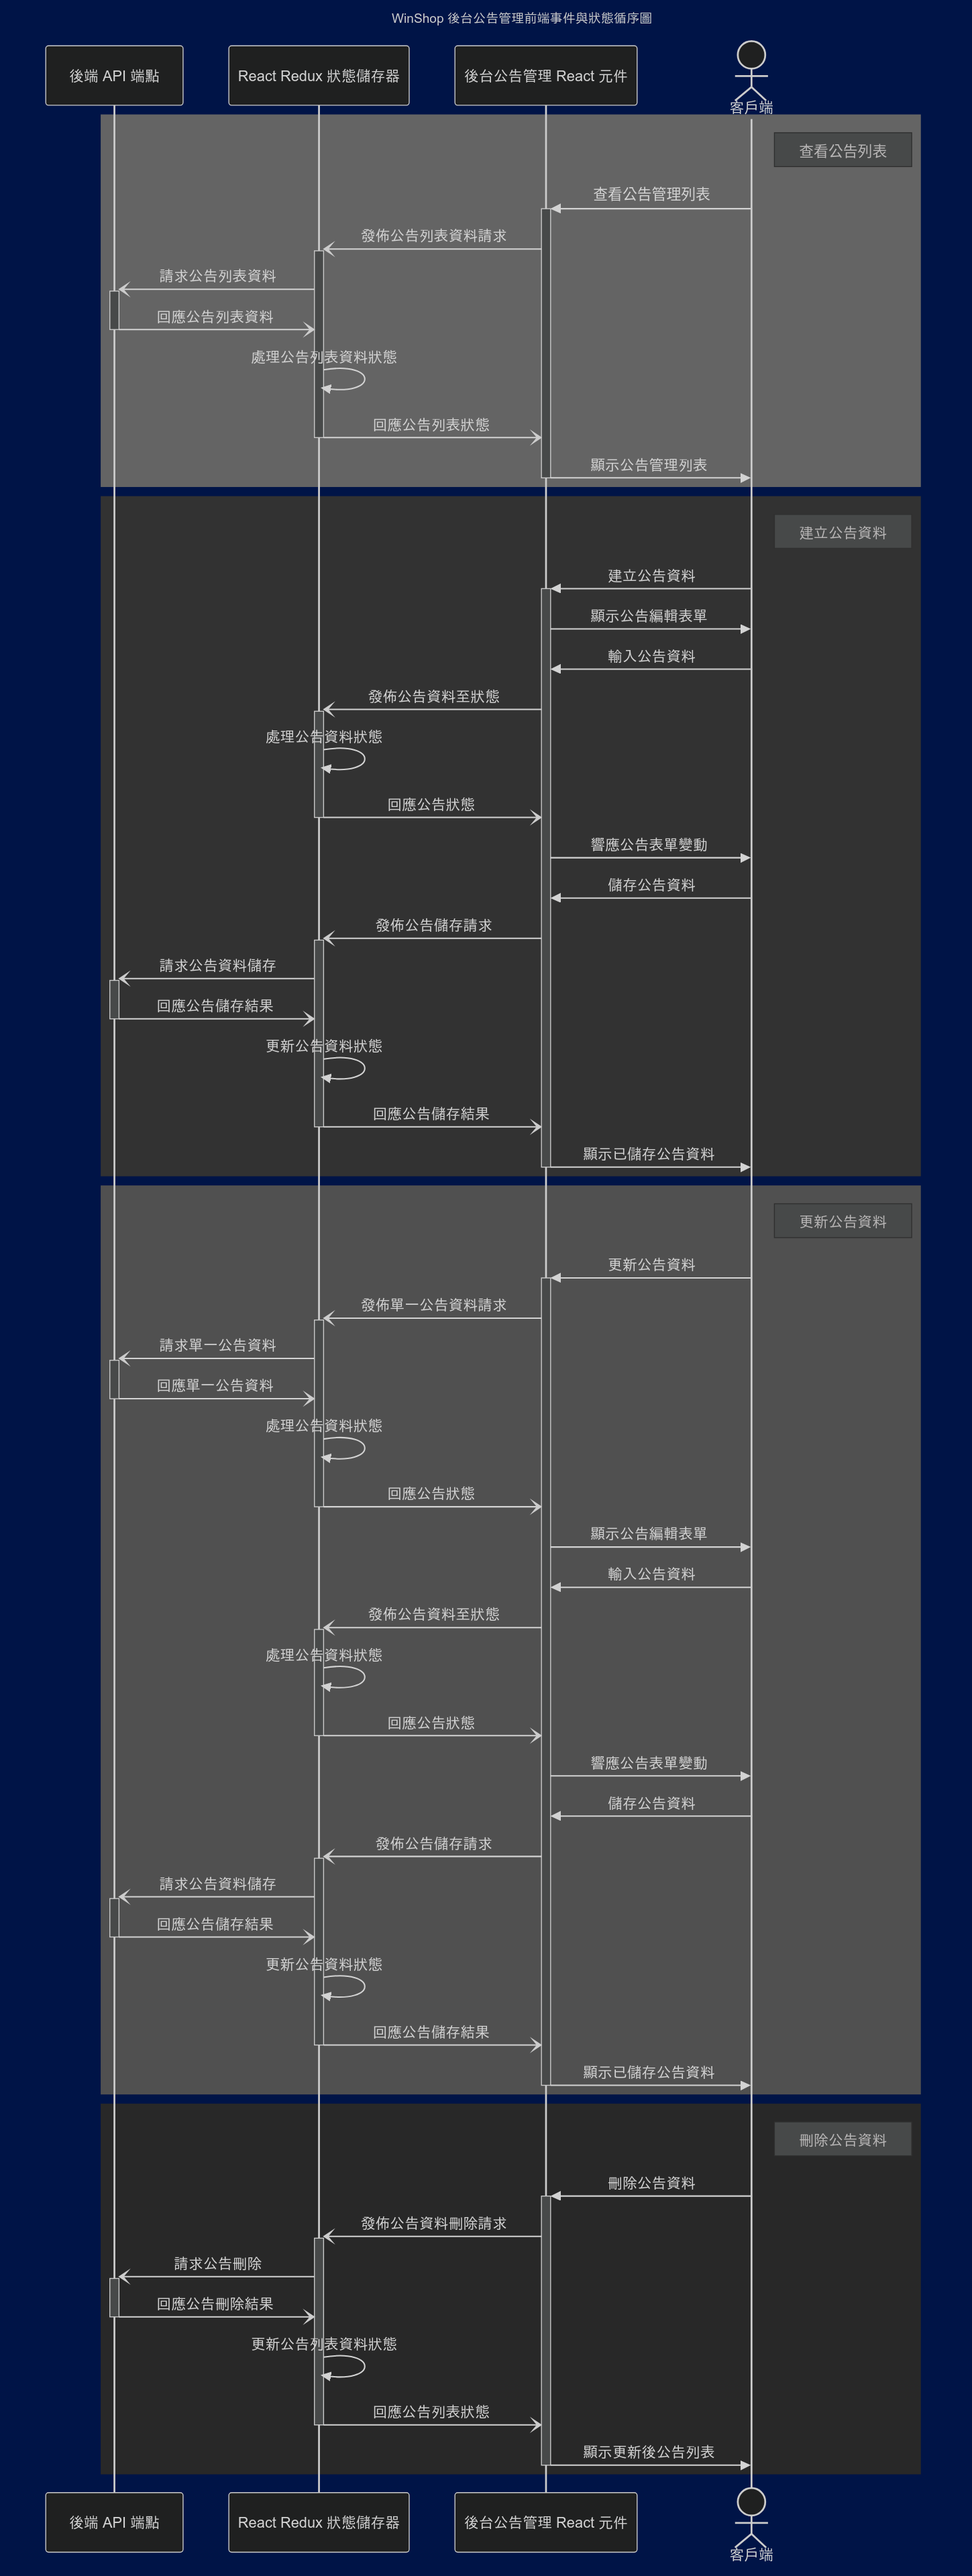
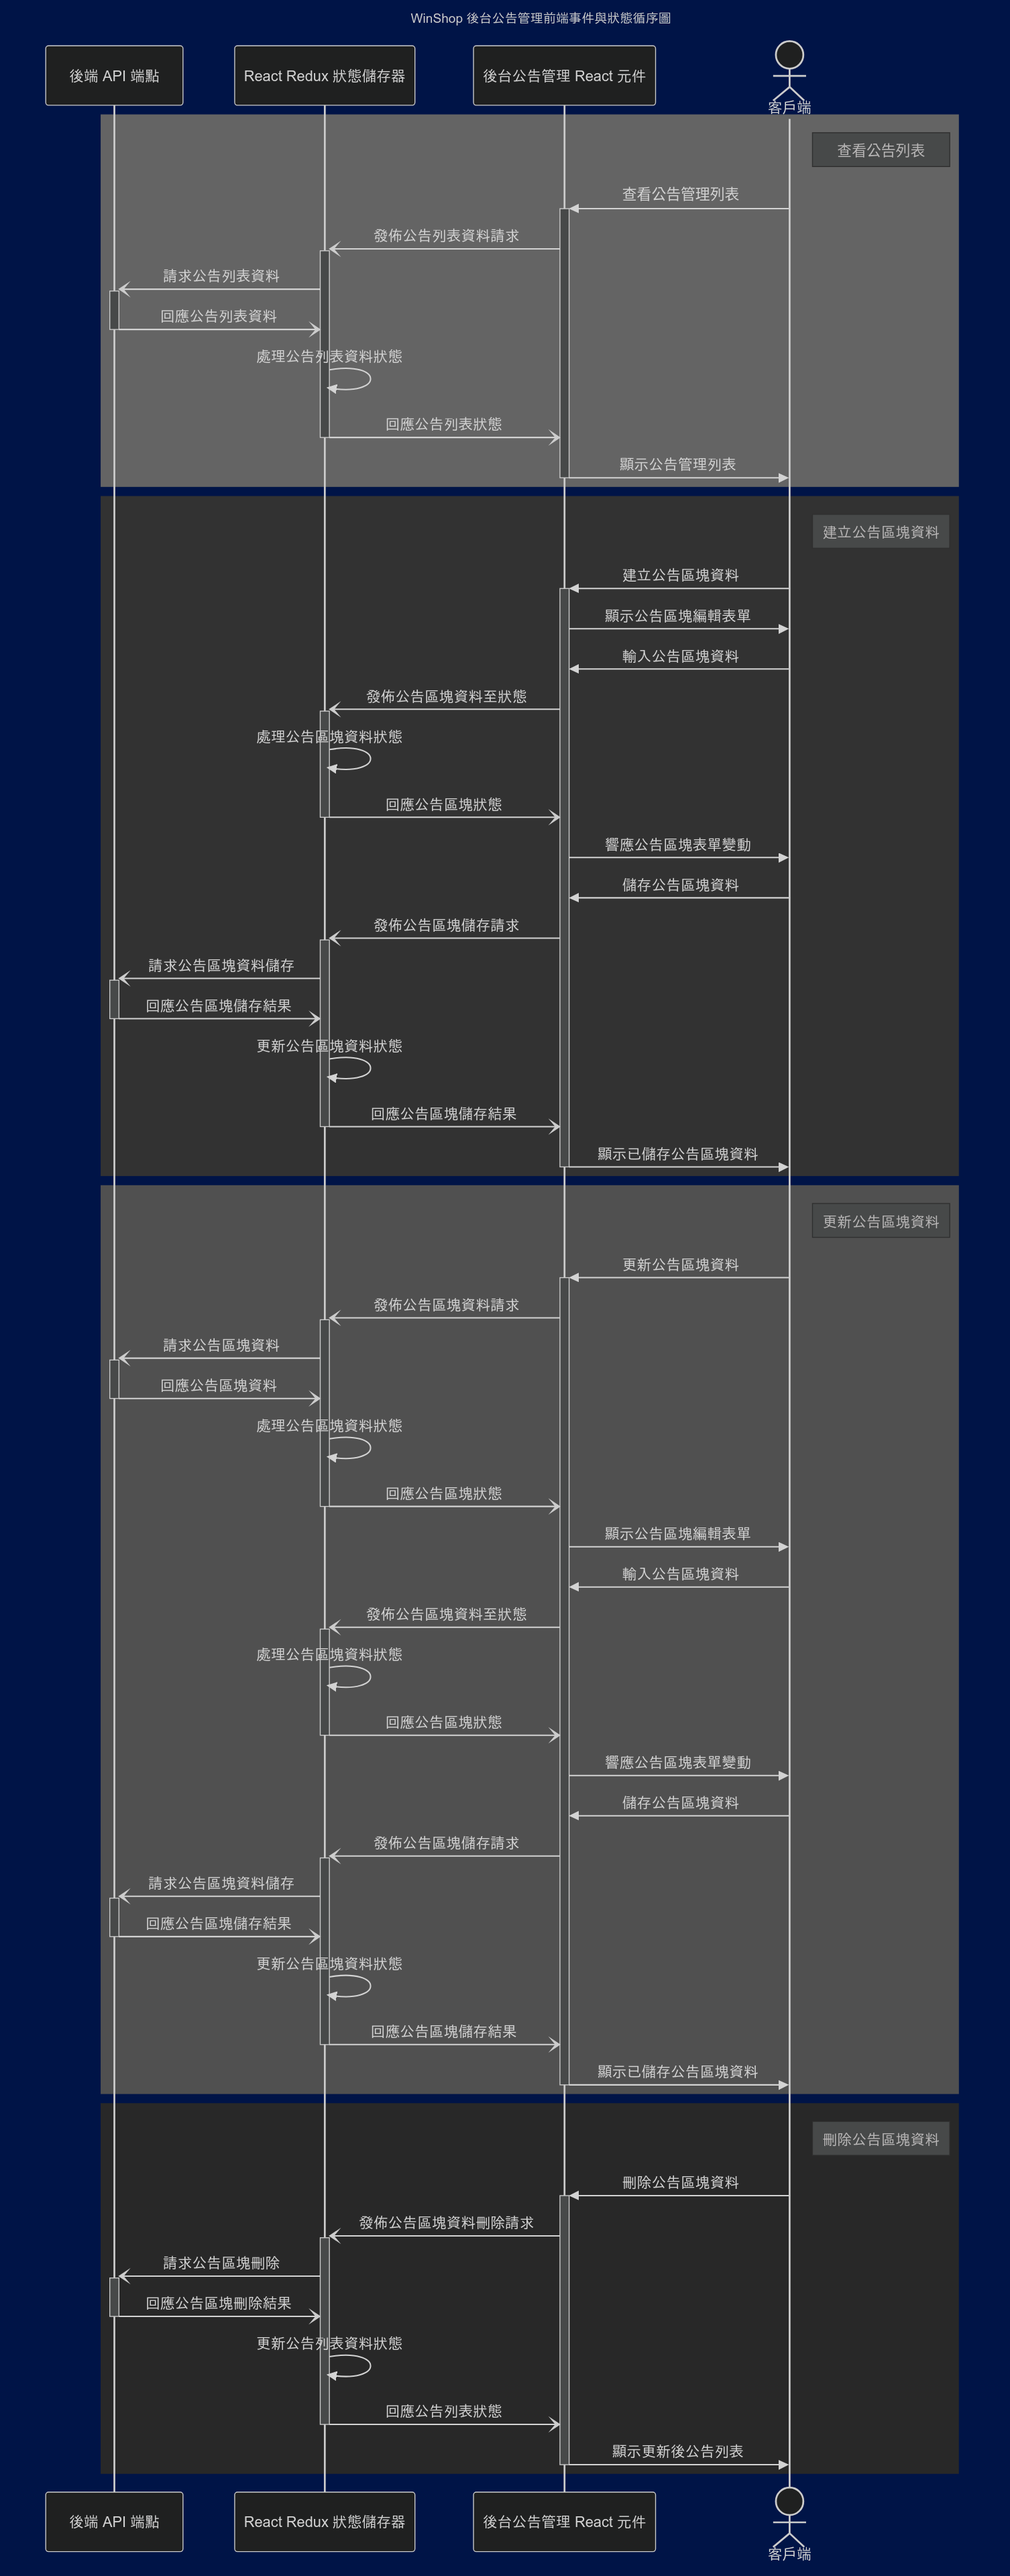
GITBOOK-4: No subject

diff --git a/qian-duan-xiang-xi-wen-jian/qian-duan-shi-jian-zhuang-tai-xun-xu-tu.md b/qian-duan-xiang-xi-wen-jian/qian-duan-shi-jian-zhuang-tai-xun-xu-tu.md
@@ -58,50 +58,50 @@ sequenceDiagram
     announcementManage ->>- client: 顯示公告管理列表
     end
     rect rgb(50, 50, 50)
-    note right of client: 建立公告資料
-    client ->>+ announcementManage: 建立公告資料
-    announcementManage ->> client: 顯示公告編輯表單
-    client ->> announcementManage: 輸入公告資料
-    announcementManage -)+ redux: 發佈公告資料至狀態
-    redux ->> redux: 處理公告資料狀態
-    redux -)- announcementManage: 回應公告狀態
-    announcementManage ->> client: 響應公告表單變動
-    client ->> announcementManage: 儲存公告資料
-    announcementManage -)+ redux: 發佈公告儲存請求
-    redux -)+ backend: 請求公告資料儲存
-    backend -)- redux: 回應公告儲存結果
-    redux ->> redux: 更新公告資料狀態
-    redux -)- announcementManage: 回應公告儲存結果
-    announcementManage ->>- client: 顯示已儲存公告資料
+    note right of client: 建立公告區塊資料
+    client ->>+ announcementManage: 建立公告區塊資料
+    announcementManage ->> client: 顯示公告區塊編輯表單
+    client ->> announcementManage: 輸入公告區塊資料
+    announcementManage -)+ redux: 發佈公告區塊資料至狀態
+    redux ->> redux: 處理公告區塊資料狀態
+    redux -)- announcementManage: 回應公告區塊狀態
+    announcementManage ->> client: 響應公告區塊表單變動
+    client ->> announcementManage: 儲存公告區塊資料
+    announcementManage -)+ redux: 發佈公告區塊儲存請求
+    redux -)+ backend: 請求公告區塊資料儲存
+    backend -)- redux: 回應公告區塊儲存結果
+    redux ->> redux: 更新公告區塊資料狀態
+    redux -)- announcementManage: 回應公告區塊儲存結果
+    announcementManage ->>- client: 顯示已儲存公告區塊資料
     end
     rect rgb(80, 80, 80)
-    note right of client: 更新公告資料
-    client ->>+ announcementManage: 更新公告資料
-    announcementManage -)+ redux: 發佈單一公告資料請求
-    redux -)+ backend: 請求單一公告資料
-    backend -)- redux: 回應單一公告資料
-    redux ->> redux: 處理公告資料狀態
-    redux -)- announcementManage: 回應公告狀態
-    announcementManage ->> client: 顯示公告編輯表單
-    client ->> announcementManage: 輸入公告資料
-    announcementManage -)+ redux: 發佈公告資料至狀態
-    redux ->> redux: 處理公告資料狀態
-    redux -)- announcementManage: 回應公告狀態
-    announcementManage ->> client: 響應公告表單變動
-    client ->> announcementManage: 儲存公告資料
-    announcementManage -)+ redux: 發佈公告儲存請求
-    redux -)+ backend: 請求公告資料儲存
-    backend -)- redux: 回應公告儲存結果
-    redux ->> redux: 更新公告資料狀態
-    redux -)- announcementManage: 回應公告儲存結果
-    announcementManage ->>- client: 顯示已儲存公告資料
+    note right of client: 更新公告區塊資料
+    client ->>+ announcementManage: 更新公告區塊資料
+    announcementManage -)+ redux: 發佈公告區塊資料請求
+    redux -)+ backend: 請求公告區塊資料
+    backend -)- redux: 回應公告區塊資料
+    redux ->> redux: 處理公告區塊資料狀態
+    redux -)- announcementManage: 回應公告區塊狀態
+    announcementManage ->> client: 顯示公告區塊編輯表單
+    client ->> announcementManage: 輸入公告區塊資料
+    announcementManage -)+ redux: 發佈公告區塊資料至狀態
+    redux ->> redux: 處理公告區塊資料狀態
+    redux -)- announcementManage: 回應公告區塊狀態
+    announcementManage ->> client: 響應公告區塊表單變動
+    client ->> announcementManage: 儲存公告區塊資料
+    announcementManage -)+ redux: 發佈公告區塊儲存請求
+    redux -)+ backend: 請求公告區塊資料儲存
+    backend -)- redux: 回應公告區塊儲存結果
+    redux ->> redux: 更新公告區塊資料狀態
+    redux -)- announcementManage: 回應公告區塊儲存結果
+    announcementManage ->>- client: 顯示已儲存公告區塊資料
     end
     rect rgb(40, 40, 40)
-    note right of client: 刪除公告資料
-    client ->>+ announcementManage: 刪除公告資料
-    announcementManage -)+ redux: 發佈公告資料刪除請求
-    redux -)+ backend: 請求公告刪除
-    backend -)- redux: 回應公告刪除結果
+    note right of client: 刪除公告區塊資料
+    client ->>+ announcementManage: 刪除公告區塊資料
+    announcementManage -)+ redux: 發佈公告區塊資料刪除請求
+    redux -)+ backend: 請求公告區塊刪除
+    backend -)- redux: 回應公告區塊刪除結果
     redux ->> redux: 更新公告列表資料狀態
     redux -)- announcementManage: 回應公告列表狀態
     announcementManage ->>- client: 顯示更新後公告列表

diff --git a/SUMMARY.md b/SUMMARY.md
@@ -45,7 +45,7 @@
       * [relatedAnnouncement()](hou-duan-xiang-xi-wen-jian/lei-bie-can-kao-wen-jian/announcementscontentmodel/relatedannouncement.md)
     * [AnnouncementsSitesModel](hou-duan-xiang-xi-wen-jian/lei-bie-can-kao-wen-jian/announcementssitesmodel/README.md)
       * [relatedAnnouncement()](hou-duan-xiang-xi-wen-jian/lei-bie-can-kao-wen-jian/announcementssitesmodel/relatedannouncement.md)
+  * [後端 API](hou-duan-xiang-xi-wen-jian/hou-duan-api.md)
 * [前端詳細文件](qian-duan-xiang-xi-wen-jian/README.md)
   * [React 元件圖](qian-duan-xiang-xi-wen-jian/react-yuan-jian-tu.md)
   * [前端事件、狀態循序圖](qian-duan-xiang-xi-wen-jian/qian-duan-shi-jian-zhuang-tai-xun-xu-tu.md)
-* [後端 API](hou-duan-api.md)

diff --git a/hou-duan-xiang-xi-wen-jian/hou-duan-api.md b/hou-duan-xiang-xi-wen-jian/hou-duan-api.md
@@ -1,5 +1,9 @@
 # 後端 API
 
+## 公告列表
+
+
+
 ## 建立公告
 
 <mark style="color:green;">`POST`</mark> `/api/shopadmin/announcement`
